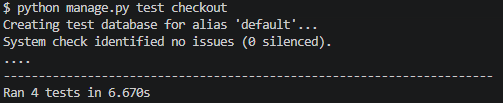
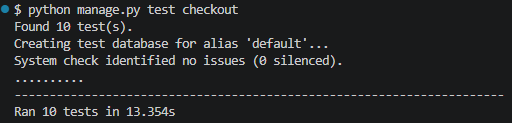
added more tests for stripe and webhook handling

diff --git a/checkout/tests.py b/checkout/tests.py
@@ -1,20 +1,57 @@
 from django.test import TestCase
 from django.urls import reverse
 from django.contrib.auth.models import User
+from django.contrib.messages import get_messages
+
+import itertools
+import json
+from types import SimpleNamespace
+from unittest.mock import patch, MagicMock
 
 from .models import Order
+from .webhook_handler import StripeWH_Handler
+from plants.models import Plant, Category
 
 
-def make_order(user_profile=None):
+# gives stripe_pids to orders
+_pid_counter = itertools.count(1)
+
+
+def make_order(user_profile=None, stripe_pid=None):
     """Create an order"""
     return Order.objects.create(
         user_profile=user_profile,
+        stripe_pid=stripe_pid or f"pi_test_{next(_pid_counter)}",
         full_name="Test Person",
         email="test@example.com",
         phone_number="01234",
         country="GB",
         town_or_city="York",
         street_address1="1 High Street",
+    )
+
+
+class AnyAmount:
+    """Any number"""
+    def __eq__(self, other):
+        return True
+
+
+def fake_intent(status="succeeded"):
+    """A fake Stripe payment intent."""
+    intent = MagicMock()
+    intent.status = status
+    intent.amount = AnyAmount()
+    return intent
+
+
+def fake_event(pid, metadata=None):
+    """A fake Stripe webhook event."""
+    return SimpleNamespace(
+        type="payment_intent.succeeded",
+        data=SimpleNamespace(
+            object=SimpleNamespace(id=pid, metadata=metadata or {})
+        ),
     )
 
 
@@ -62,3 +99,117 @@ class CheckoutSuccessTests(TestCase):
             args=[order.order_number])
             )
         self.assertEqual(response.status_code, 200)
+
+
+class CheckoutViewPaymentTests(TestCase):
+    def setUp(self):
+        self.category = Category.objects.create(
+                    name="Tropical",
+                    slug="tropical"
+                    )
+        self.plant = Plant.objects.create(
+                    category=self.category,
+                    name="Monstera",
+                    slug="monstera",
+                    price="12.99",
+                    is_active=True,
+                )
+        session = self.client.session
+        session["basket"] = {str(self.plant.pk): 1}
+        session.save()
+        self.url = reverse("checkout")
+        self.data = {
+            "full_name": "Test Person",
+            "email": "test@example.com",
+            "phone_number": "01234",
+            "country": "GB",
+            "town_or_city": "York",
+            "postcode": "YO306FG",
+            "street_address1": "1 High Street",
+            "client_secret": "pi_view_1_secret_abc",
+        }
+
+        # replicating a stripe payment
+        patcher = patch("checkout.views.stripe.StripeClient")
+        fake_stripe = patcher.start().return_value
+        self.addCleanup(patcher.stop)
+        fake_stripe.v1.payment_intents.create.return_value.client_secret = (
+            "pi_view_1_secret_abc")
+        self.stripe_retrieve = fake_stripe.v1.payment_intents.retrieve
+        self.stripe_retrieve.return_value = fake_intent()
+
+
+    def test_successful_payment_creates_one_order(self):
+        """Successful payment and create order"""
+        self.client.post(self.url, self.data)
+        self.assertEqual(
+            Order.objects.filter(stripe_pid="pi_view_1").count(), 1)
+
+    def test_declined_payment_creates_no_order(self):
+        """Unsuccessful payment and no order is created"""
+        self.stripe_retrieve.return_value = fake_intent("requires_payment_method")
+        self.client.post(self.url, self.data)
+        self.assertEqual(Order.objects.count(), 0)
+
+    def test_existing_order_redirects_without_crashing(self):
+        """Order already exists so do not take payment"""
+        existing = make_order(stripe_pid="pi_view_1")
+        response = self.client.post(self.url, self.data)
+        self.assertRedirects(
+            response,
+            reverse("checkout_success", args=[existing.order_number]),
+            fetch_redirect_response=False)
+        self.assertEqual(Order.objects.count(), 1)
+
+
+class WebhookTests(TestCase):
+    def setUp(self):
+        self.category = Category.objects.create(
+                    name="Tropical",
+                    slug="tropical"
+                    )
+        self.plant = Plant.objects.create(
+                            category=self.category,
+                            name="Monstera",
+                            slug="monstera",
+                            price="12.99",
+                            is_active=True,
+                        )
+        self.handler = StripeWH_Handler(request=None)
+        self.metadata = {
+            "full_name": "Test Person",
+            "email": "test@example.com",
+            "phone_number": "01234",
+            "country": "GB",
+            "town_or_city": "York",
+            "postcode": "YO306FG",
+            "street_address1": "1 High Street",
+            "basket": json.dumps({str(self.plant.pk): 2}),
+            "username": "",
+            "save_info": "0",
+        }
+
+    def test_existing_order_returns_200(self):
+        """Order already exists so return 200"""
+        make_order(stripe_pid="pi_wh_1")
+        response = self.handler.handle_payment_intent_succeeded(
+            fake_event("pi_wh_1"))
+        self.assertEqual(response.status_code, 200)
+
+    @patch("checkout.webhook_handler.time.sleep")
+    def test_webhook_first_creates_order(self, _sleep):
+        """No order exists so create a webhook"""
+        response = self.handler.handle_payment_intent_succeeded(
+            fake_event("pi_wh_2", self.metadata))
+        self.assertEqual(response.status_code, 200)
+        self.assertEqual(
+            Order.objects.filter(stripe_pid="pi_wh_2").count(), 1)
+
+    @patch("checkout.webhook_handler.time.sleep")
+    def test_repeated_delivery_creates_one_order(self, _sleep):
+        """Two identical webhooks create one order"""
+        event = fake_event("pi_wh_3", self.metadata)
+        self.handler.handle_payment_intent_succeeded(event)
+        self.handler.handle_payment_intent_succeeded(event)
+        self.assertEqual(
+            Order.objects.filter(stripe_pid="pi_wh_3").count(), 1)

diff --git a/README.md b/README.md
@@ -209,7 +209,7 @@ This section outlines the measures taken to keep user data, payments and site co
 * Only the order number, delivery details and Stripe payment intent ID (PID) are stored in the database.
 
 ### Secrets and Environment Variables
-* The secret key, database URL, Stripe keys and AWS keys are stored in `env.py` locally and in Heroku Config Vars in production.
+* The secret key, database key, Stripe keys and AWS keys are stored in `env.py` locally and in Heroku Config Vars in production.
 * `env.py` is listed in `.gitignore` so no credentials are committed to the repository.
 * `DEBUG` is set to `False` in production, and `ALLOWED_HOSTS` is limited to the deployed domain and `.herokuapp.com`.
 
@@ -485,7 +485,7 @@ The live version of this site is hosted using Heroku. To deploy your own version
 1. Set up a Heroku account and log in
 2. Select 'New' in the top right and create new app
 3. Name your app and choose the correct region before selecting create app
-4. Edit the config vars section within the settings tab with your unique SECRET_KEY, DATABASE_URL, STRIPE KEYS, AWS KEYS and any other unique variables you have included in your project
+4. Edit the config vars section within the settings tab with your unique SECRET_KEY, DATABASE_KEY, STRIPE KEYS, AWS KEYS and any other unique variables you have included in your project
 5. In the deploy tab, choose GitHub as your deployment method
 6. Choose the correct repository and ensure the correct branch is selected (usually main)
 7. Use the 'deploy branch' button in the manual deployments section and let this run. You can also set this to automatic deployment so anytime you push to main in your repository it automatically deploys the most recent commit

diff --git a/testing.md b/testing.md
@@ -233,12 +233,18 @@ I conducted 4 tests for the basket app:
 <img src="./media/testing/django/basket.png">
 
 ### Checkout Testing
-I conducted 4 tests on the checkout app:
+I conducted 10 tests on the checkout app:
 
 1. Successful orders show a success page for all users
 2. Unauthenticated users cannot see order history
 3. A user trying to view another users order will receive a 404 error
 4. An authenticated user can see their own orders
+5. A successful payment creates exactly one order
+6. A declined payment does not create an order
+7. If an order already exists for a payment, the checkout view redirects to that order without crashing or creating a duplicate
+8. If an order already exists when a payment webhook arrives, the webhook returns a 200 response without crashing
+9. If the webhook arrives before the checkout form is submitted, the webhook creates the order
+10. If the same webhook is delivered twice, only one order is created
 
 <img src="./media/testing/django/checkout.png">
 
